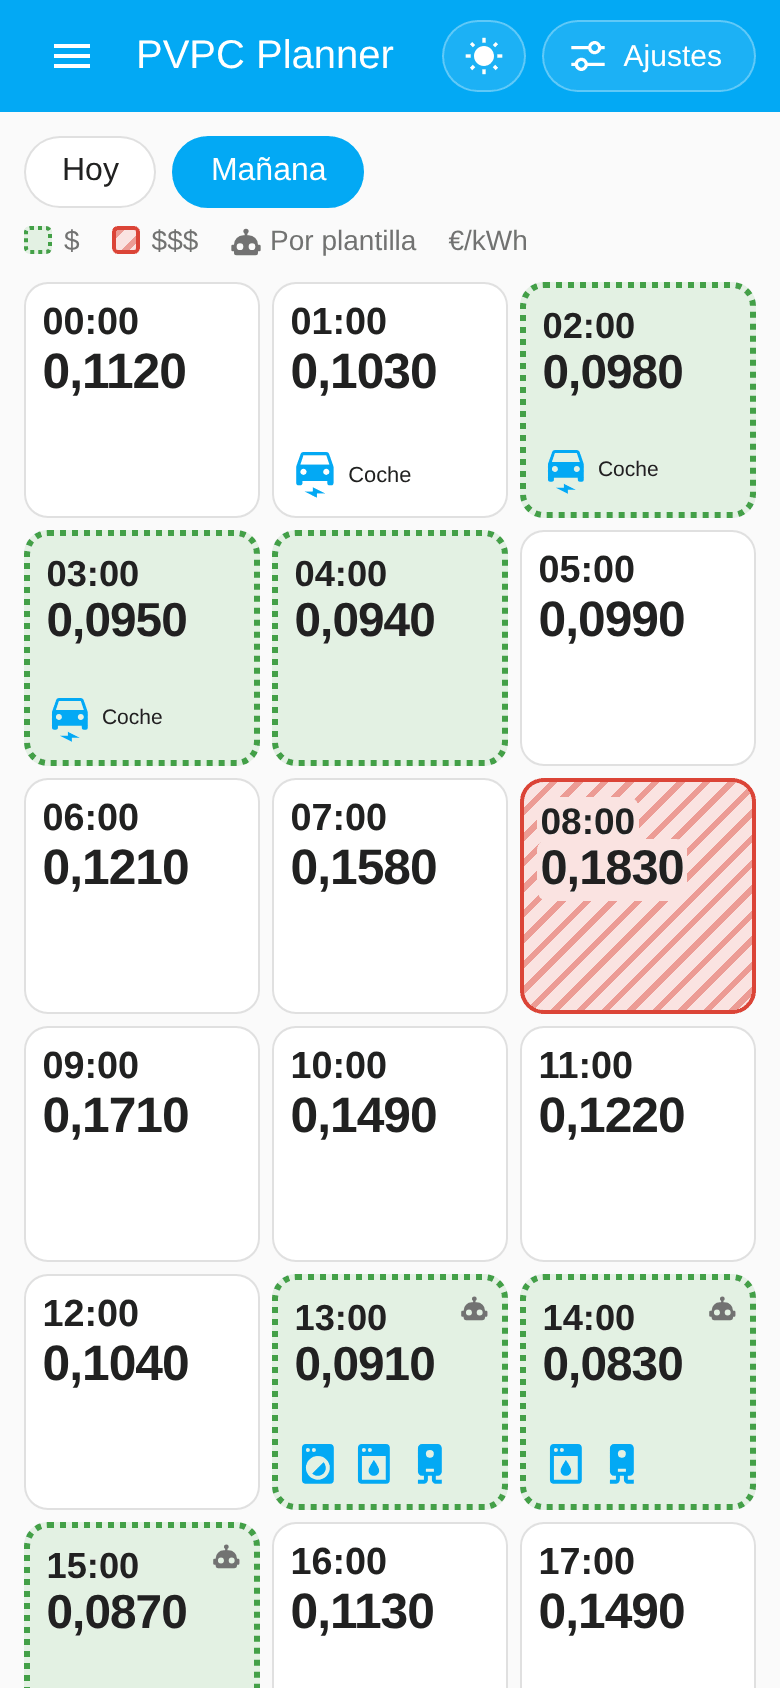
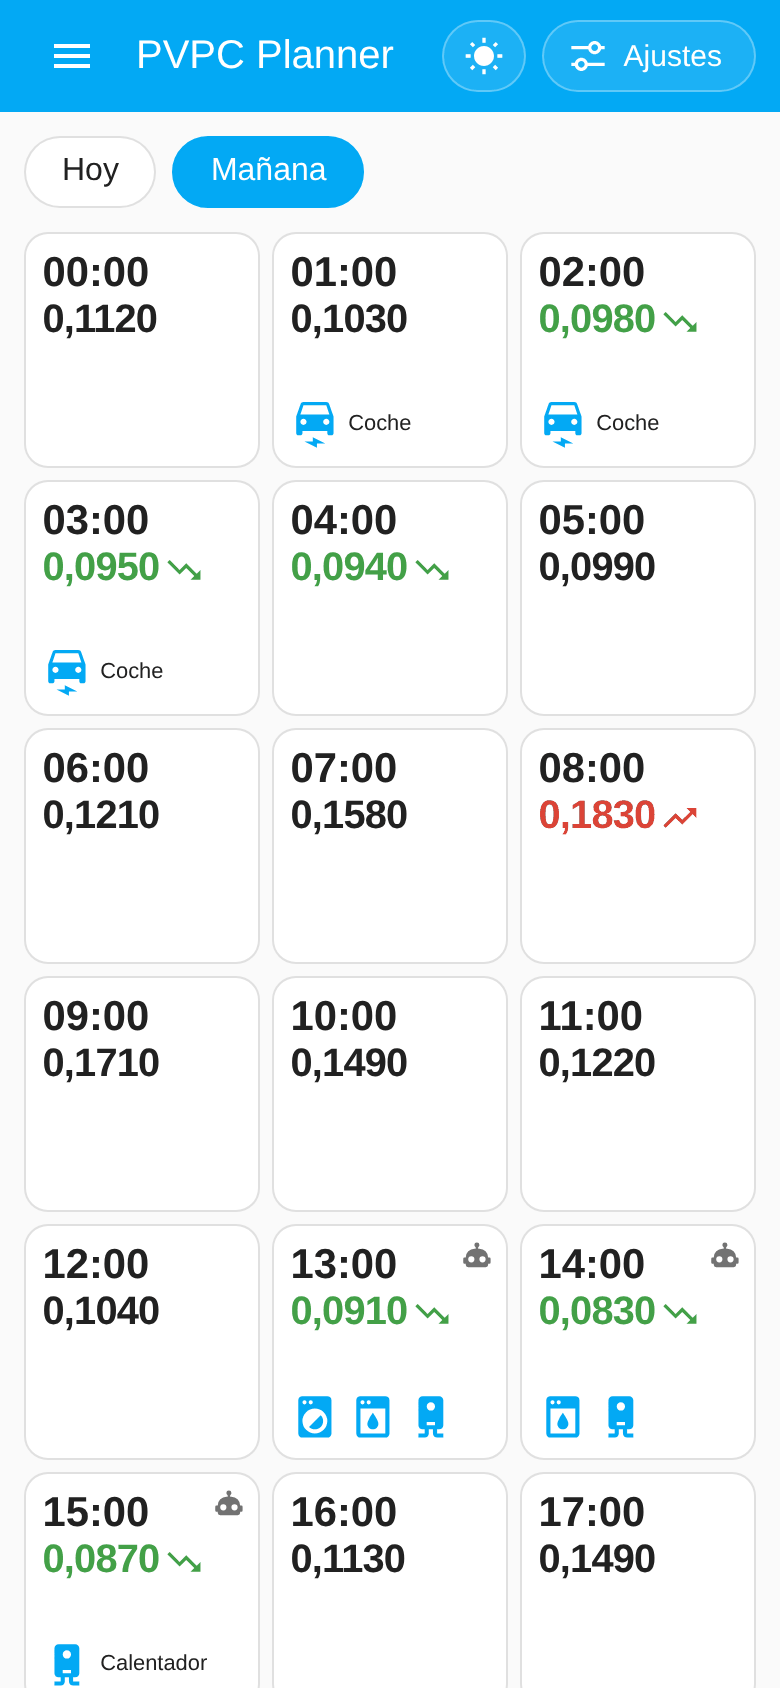
Panel: mismo estilo que la imagen
Sin rayado, punteado ni leyenda: precio en verde o rojo con flecha de
tendencia. Capturas y GIFs regenerados.

Claude-Session: https://claude.ai/code/session_01BaPuivVUSaXxe5p48LazZQ

diff --git a/custom_components/pvpc_planner/frontend/pvpc-planner-panel.js b/custom_components/pvpc_planner/frontend/pvpc-planner-panel.js
@@ -407,6 +407,14 @@ function parsePrices(attrs, nextDay) {
   return out.sort((a, b) => a.hour - b.hour || a.dup - b.dup);
 }
 
+const TREND = { cheap: ["mdi:trending-down", "cheapest"], expensive: ["mdi:trending-up", "priciest"] };
+
+function trendHtml(t, level) {
+  if (!TREND[level]) return "";
+  const [icon, key] = TREND[level];
+  return `<ha-icon class="trend" icon="${icon}" title="${esc(t(key, { n: TOP }))}"></ha-icon>`;
+}
+
 function classify(prices) {
   const cls = new Map();
   [...prices]
@@ -469,9 +477,6 @@ const STYLE = `
   color: inherit; font: inherit; cursor: pointer; }
 .tabs button.on { background: var(--primary-color); border-color: var(--primary-color); color: var(--text-primary-color, #fff); }
 .tabs button[aria-disabled="true"] { opacity: .45; }
-.legend { display: flex; flex-wrap: wrap; gap: 4px 16px; font-size: 14px; color: var(--secondary-text-color); }
-.dot { display: inline-block; width: 14px; height: 14px; box-sizing: border-box; border-radius: 3px; margin-right: 6px; vertical-align: -2px; }
-.dot.cheap { border-width: 2px; }
 .msg:empty { display: none; }
 .msg { padding: 12px; border-radius: 8px; background: var(--card-background-color); margin-bottom: 12px; }
 /* Columnas divisoras de 24 para filas completas; celdas cuadradas. */
@@ -481,21 +486,18 @@ const STYLE = `
 .cell { aspect-ratio: 1; min-width: 0; overflow: hidden; box-sizing: border-box; display: grid; grid-template-rows: 1fr 1fr;
   container-type: inline-size; background: var(--card-background-color); border: 1px solid var(--divider-color); border-radius: 12px;
   padding: 7%; cursor: pointer; }
-/* Como la imagen para pantallas: caras rayadas, baratas con borde punteado. */
-.cheap, .expensive { --tint: color-mix(in srgb, var(--c) 15%, var(--card-background-color, #fff)); background: var(--tint); }
-.cheap { --c: var(--success-color, #43a047); border: 3px dotted var(--c); }
-.expensive { --c: var(--error-color, #db4437); border: 2px solid var(--c);
-  background: repeating-linear-gradient(135deg, color-mix(in srgb, var(--c) 45%, transparent) 0 3px, transparent 3px 9px), var(--tint); }
-/* Fondo liso bajo el texto para leerlo sobre las rayas. */
-.cell.expensive :is(.h, .p, .devs, .badge) { width: fit-content; border-radius: 4px; background: var(--tint);
-  box-shadow: 0 0 0 1.5cqw var(--tint); }
+/* Como la imagen para pantallas: precio y flecha en verde (barata) o rojo (cara). */
+.cheap { --c: var(--success-color, #43a047); }
+.expensive { --c: var(--error-color, #db4437); }
+.cell:is(.cheap, .expensive) .p { color: var(--c); }
+.trend { --mdc-icon-size: 1em; margin-left: 2cqw; vertical-align: -.1em; }
 .cell.past { opacity: .4; cursor: default; }
 .cell.now { outline: 2px solid var(--primary-color); outline-offset: -1px; }
 .cell:focus-visible { outline: 2px solid var(--primary-color); }
 /* Medidas en cqw: escalan con la celda. Mitad superior hora y precio; inferior, dispositivos. */
-.h, .p { font-size: 19cqw; font-weight: 700; line-height: 1.15; white-space: nowrap; font-variant-numeric: tabular-nums; }
-.p { font-size: 25cqw; font-weight: 800; letter-spacing: -.02em; }
-.h small { font-size: .6em; font-weight: 500; }
+.h, .p { font-size: 21cqw; font-weight: 700; line-height: 1.15; white-space: nowrap; font-variant-numeric: tabular-nums; }
+.p { font-size: 20cqw; font-weight: 800; letter-spacing: -.02em; }
+.h small { font-size: .5em; font-weight: 500; }
 .devs { display: flex; align-items: center; align-self: end; gap: 4cqw; min-width: 0; color: var(--primary-color);
   --mdc-icon-size: 25cqw; }
 .devs ha-icon { flex: none; }
@@ -602,7 +604,7 @@ class PvpcPlannerPanel extends HTMLElement {
         <button class="pill theme"><ha-icon></ha-icon></button>
         <button class="settings-btn"><ha-icon icon="mdi:tune-variant"></ha-icon><span></span></button></div>
       <div class="content">
-        <div class="bar"><div class="tabs"></div><div class="legend"></div></div>
+        <div class="bar"><div class="tabs"></div></div>
         <div class="msg"></div>
         <div class="grid"></div>
       </div>
@@ -747,13 +749,6 @@ class PvpcPlannerPanel extends HTMLElement {
     this._$(".tabs").innerHTML = `
       <button data-day="today" class="${isToday ? "on" : ""}">${t("today")}</button>
       <button data-day="tomorrow" class="${isToday ? "" : "on"}" ${tomorrow.length ? "" : `aria-disabled="true" title="${t("tomorrow_pending")}"`}>${t("tomorrow")}</button>`;
-    const unit = stateObj.attributes.unit_of_measurement || "€/kWh";
-    this._$(".legend").innerHTML = `
-      <span title="${t("cheapest", { n: TOP })}"><i class="dot cheap"></i>$</span>
-      <span title="${t("priciest", { n: TOP })}"><i class="dot expensive"></i>$$$</span>
-      ${Object.keys(this._templates).length ? `<span><ha-icon icon="mdi:robot" style="--mdc-icon-size:16px"></ha-icon> ${t("tpl_auto")}</span>` : ""}
-      <span>${esc(unit)}</span>`;
-
     if (!prices.length) return fail(t("no_prices"));
     msg.textContent = "";
 
@@ -774,7 +769,7 @@ class PvpcPlannerPanel extends HTMLElement {
             data-hour="${p.hour}" role="button" tabindex="${past ? -1 : 0}">
           ${auto_.length ? `<ha-icon class="badge" icon="mdi:robot" title="${esc(t("tpl_auto"))}"></ha-icon>` : ""}
           <div><div class="h">${pad(p.hour)}:00${p.dup ? ` <small>${t("repeated")}</small>` : ""}</div>
-          <div class="p">${fmt.format(p.price)}</div></div>
+          <div class="p">${fmt.format(p.price)}${trendHtml(t, cls.get(p))}</div></div>
           ${this._devs(ents)}
         </div>`;
       })
